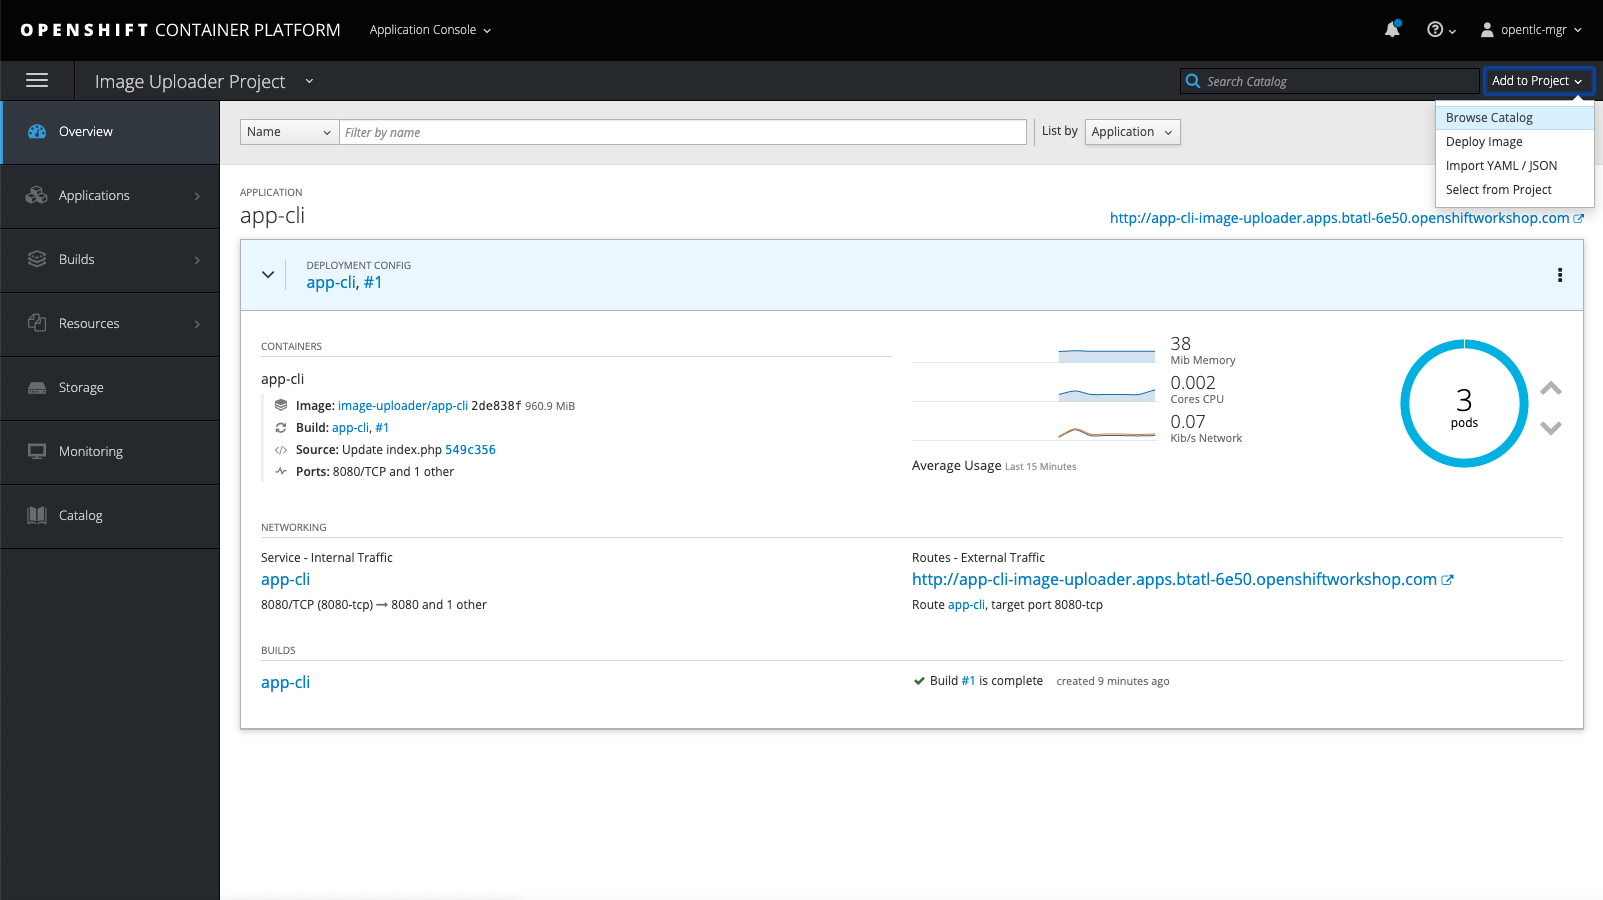
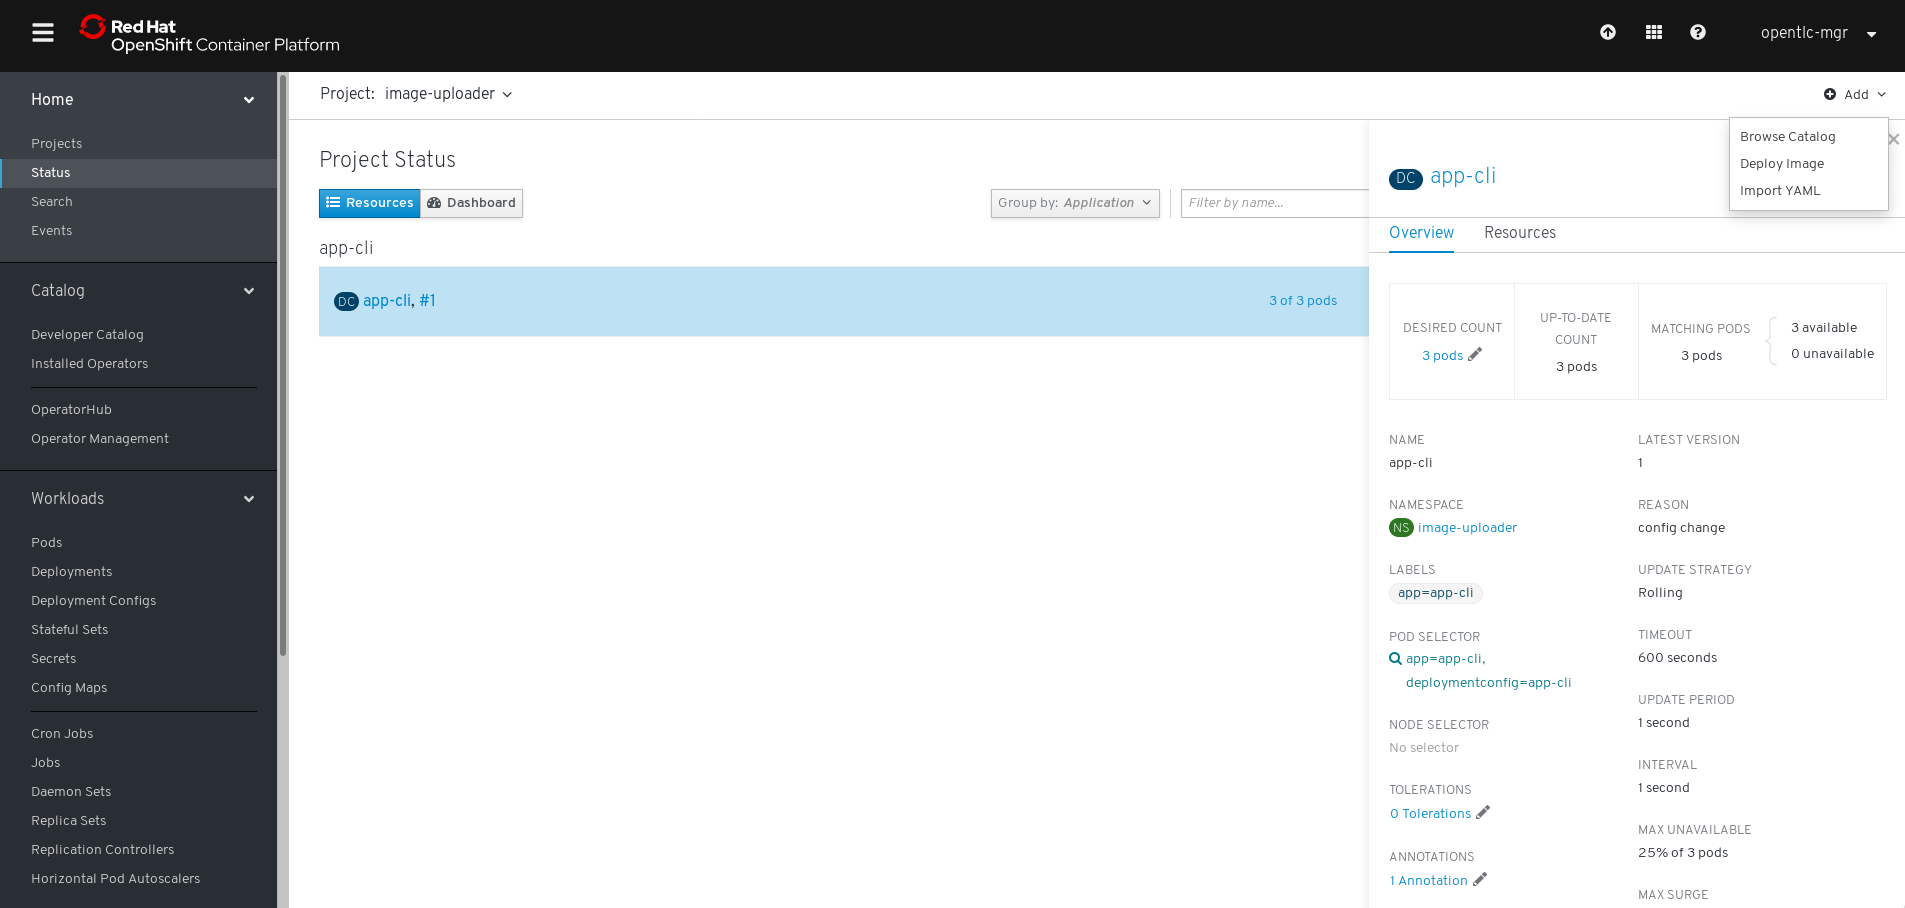
finish first run of ocp revamp

diff --git a/README.md b/README.md
@@ -644,14 +644,26 @@ $ oc project image-uploader
 Inside the `image-uploader` project you'll use the `oc new-app` command to deploy your new application using S2I.
 
 ```
-$ oc new-app --image-stream=php --code=https://github.com/OpenShiftInAction/image-uploader.git --name=app-cli
---> Found image eb1fe84 (2 weeks old) in image stream "openshift/php" under tag "7.1" for "php"
+$ oc new-project image-uploader
+Now using project "image-uploader" on server "https://api.cluster-btws-6505.btws-6505.open.redhat.com:6443".
 
-    Apache 2.4 with PHP 7.1
+You can add applications to this project with the 'new-app' command. For example, try:
+
+    oc new-app django-psql-example
+
+to build a new example application in Python. Or use kubectl to deploy a simple Kubernetes application:
+
+    kubectl create deployment hello-node --image=gcr.io/hello-minikube-zero-install/hello-node
+
+<c new-app --image-stream=php --code=httpsploader.git --name=app-cliction/image-u                              n       
+
+--> Found image fff791a (2 weeks old) in image stream "openshift/php" under tag "7.2" for "php"
+
+    Apache 2.4 with PHP 7.2
     -----------------------
-    PHP 7.1 available as container is a base platform for building and running various PHP 7.1 applications and frameworks. PHP is an HTML-embedded scripting language. PHP attempts to make it easy for developers to write dynamically generated web pages. PHP also offers built-in database integration for several commercial and non-commercial database management systems, so writing a database-enabled webpage with PHP is fairly simple. The most common use of PHP coding is probably as a replacement for CGI scripts.
+    PHP 7.2 available as container is a base platform for building and running various PHP 7.2 applications and frameworks. PHP is an HTML-embedded scripting language. PHP attempts to make it easy for developers to write dynamically generated web pages. PHP also offers built-in database integration for several commercial and non-commercial database management systems, so writing a database-enabled webpage with PHP is fairly simple. The most common use of PHP coding is probably as a replacement for CGI scripts.
 
-    Tags: builder, php, php71, rh-php71
+    Tags: builder, php, php72, rh-php72
 
     * The source repository appears to match: php
     * A source build using source code from https://github.com/OpenShiftInAction/image-uploader.git will be created
@@ -671,15 +683,16 @@ $ oc new-app --image-stream=php --code=https://github.com/OpenShiftInAction/imag
     Application is not exposed. You can expose services to the outside world by executing one or more of the commands below:
      'oc expose svc/app-cli'
     Run 'oc status' to view your app.
+
 ```
 
 The build process should only take a couple of minutes. Once the output of `oc get pods` shows your `app-cli` pod in a Ready and Running state, you're (almost) good to go.
 
 ```
-$ oc get pods
-NAME              READY   STATUS      RESTARTS   AGE
-app-cli-1-build   0/1     Completed   0          1m
-app-cli-1-rkxt4   1/1     Running     0          7s
+NAME               READY   STATUS      RESTARTS   AGE
+app-cli-1-build    0/1     Completed   0          2m15s
+app-cli-1-deploy   0/1     Completed   0          56s
+app-cli-1-rwvx2    1/1     Running     0          47s
 ```
 
 We talked briefly about services and pods and all of the constructs inside OpenShift during the presentation part of this lab. You can see in the output above that you created a service as part of your new application, along with other needed objects. Let's take a look at the `app-cli` service using the command line.
@@ -707,7 +720,7 @@ Before we can get to our new application, we have to expose the service external
 
 ```
 $ oc expose svc/app-cli
-route "app-cli" exposed
+route.route.openshift.io/app-cli exposed
 ```
 
 You may notice that we used `svc` instead of `service` in the above command. Because typing is hard, most objects in OpenShift have an abbreviated syntax you can use on the CLI. Services can also be described as `svc`, DeploymentConfigs are `dc`, Replication Controllers are `rc`, and Pods are `po`. Routes don't have an abbreviation. A full list is available in the [OpenShift documentation](https://docs.openshift.com/container-platform/3.11/cli_reference/basic_cli_operations.html#object-types).
@@ -732,10 +745,10 @@ Scaling your `app-cli` application is accomplished with a single `oc scale` comm
 
 ```
 $ oc scale dc/app-cli --replicas=3
-deploymentconfig.apps.openshift.io "app-cli" scaled
+deploymentconfig.apps.openshift.io/app-cli scaled
 ```
 
-Because your second application node doesn't have the custom container image for `app-cli` already cached, it may take a few seconds for the initial pod to be created on that node. To confirm everything is running, use the `oc get pods` command. The additional `-o wide` provides additional output, including the internal IP address of the pod and the node where it's deployed.
+To confirm everything is running, use the `oc get pods` command. The additional `-o wide` provides additional output, including the internal IP address of the pod and the node where it's deployed.
 
 ```
 $ oc get pods -o wide
@@ -746,41 +759,41 @@ app-cli-1-cdjd8   1/1     Running     0          14s   10.1.2.10   node1.btws-6e
 app-cli-1-rkxt4   1/1     Running     0          2m    10.1.2.8    node1.btws-6e50.internal   <none>
 ```
                   
-Using a single command, you just scaled your application from 1 instance to 3 instances on 2 servers in a matter of seconds. Compare that to what your application scaling process is using VMs or bare metal systems; or even things like Amazon ECS or just Docker. It's pretty amazing. Next, let's do the same thing using the web interface.
+Using a single command, you just scaled your application from 1 instance to 3 instances in a matter of seconds. Compare that to what your application scaling process is using VMs or bare metal systems; or even things like Amazon ECS or just Docker. It's pretty amazing. Next, let's do the same thing using the web interface.
 
 #### 2.3.5: Using the web interface
 
 The web interface for OpenShift makes additional assumptions when its used. The biggest difference you'll notice compared to the CLI is that routes are automatically created when applications are deployed. This can be altered, but it is the default behavior. To get started, browse to the OpenShift Console URL provided by the cluster assignment tool (it will be in the format of https://master.<INSERT_GUID_HERE>.openshiftworkshop.com/console), and login with the username `opentlc-mgr` and the password provided by the cluster assignment tool.
 
-![OpenShift Container Platform Login Page](/images/ocp_login.png) ## TODO Update pic
+![OpenShift Container Platform Login Page](/images/ocp_login.png)
 
-On the right side, select the Image Uploader Project. You may need to click the _View All_ link to have it show up for the first time.
+The default display shows all of the projects that are available to you. Select image-uploader to see what we have deployed so far.
 
-![OpenShift Container Platform Service Catalog](/images/ocp_project_list.png) ## TODO Update pic
+![OpenShift Container Platform Service Catalog](/images/ocp_project_list.png) 
 
 After clicking on the project, you'll notice the `app-cli` project we just deployed. If you click on its area, it will expand to show additional application details. These details include the exposed route, build information, and even resource metrics.
 
-![Image Uploader Project Application Console focused on the app-cli Deployment Config](/images/app-cli_gui.png) ## TODO Update pic
+![Image Uploader Project Application Console focused on the app-cli Deployment Config](/images/app-cli_gui.png)
 
-To deploy an application from the web interface, click the _Add To Project_ button in the top right corner, followed by _Browse Catalog_.
+To deploy an application from the web interface, click the _+ Add_ button in the top right corner, followed by _Browse Catalog_.
 
-![Add to Project -> Browse Catalog Menu in OpenShift Container Platform](/images/ocp_add_to_project.png) ## TODO Update pic
+![Add to Project -> Browse Catalog Menu in OpenShift Container Platform](/images/ocp_add_to_project.png)
 
 This button brings up the Service Catalog. The 100+ templates available in today's lab are just what's available out of the box in OpenShift. You and your developers can also create custom templates and add them to a single project or make them available to your entire cluster. Other platforms can also be integrated into your OpenShift Catalog. Ansible, AWS, Azure, and other service brokers are available for integration with OpenShift today.
 
-![OpenShift Service Catalog view inside of the Application Console](/images/ocp_service_catalog.png) ## TODO Update pic
+![OpenShift Service Catalog view inside of the Application Console](/images/ocp_service_catalog.png)
 
-Using the _Search Catalog_ form, search for PHP, because the Image Uploader application is written using PHP. You'll get 3 search results back.
+Using the search bar, search for PHP, because the Image Uploader application is written using PHP.
 
-![PHP Search Results in the OpenShift Service Catalog](/images/ocp_php_results.png) ## TODO Update pic
+![PHP Search Results in the OpenShift Service Catalog](/images/ocp_php_results.png)
 
-Image Uploader is a simple application that doesn't require a database. So we'll just select the PHP builder image, which is the same image we used when we deployed the same application from the command line. Selecting this option takes you to a simple wizard that helps deploy your application. Supply the same git repository you used for `app-cli` (https://github.com/OpenShiftInAction/image-uploader.git), give it the name `app-gui`, and click Create.
+Image Uploader is a simple application that doesn't require a database. So we'll just select the PHP builder image, which is the same image we used when we deployed the same application from the command line. Selecting this option takes you to a simple wizard that helps deploy your application. Supply the same git repository you used for `app-cli` (https://github.com/OpenShiftInAction/image-uploader.git), give it the name `app-gui`, check Create route, and click Create.
 
-![OpenShift PHP Web Console Build Wizard](/images/ocp_app-gui_wizard.png) ## TODO Update pic
+![OpenShift PHP Web Console Build Wizard](/images/ocp_app-gui_wizard.png)
 
-You'll get a confirmation that the build has started. Click the _Continue to project overview_ link to return to the Image Uploader project. You'll notice that the `app-gui` build is progressing quickly.
+You'll be returned to the project. Click on the _Resources_ tab to see the build pod running. Watch as the build completes and the app-gui pod is deployed.
 
-![Image Uploader Project Application Console focused on the app-gui Deployment Config](/images/ocp_app-gui_build.png) ## TODO Update pic
+![Image Uploader Project Application Console focused on the app-gui Deployment Config](/images/ocp_app-gui_build.png)
 
 After the build completes, the deployment of the custom container image starts and quickly completes. A route is then created and automatically associated with `app-gui`. And just like that, you've deployed multiple instances of the same application with different URLs onto your OpenShift platform.
 
@@ -793,22 +806,27 @@ OpenShift uses a complex software-defined network solution using [Open vSwitch (
 At a fundamental level, OpenShift creates an OVS bridge and attaches a TUN and VXLAN interface. The VXLAN interface routes requests between nodes on the cluster, and the TUN interface routes traffic off of the cluster using the node's default gateway. Each container also creates a `veth` interface that is linked to the `eth0` interface in a specific container using [kernel interface linking](https://www.kernel.org/doc/Documentation/ABI/testing/sysfs-class-net). You can see this on your nodes by running the `ovs-vsct list-br` command.
 
 ```
-$ ovs-vsctl list-br
+$ oc project openshift-sdn
+Now using project "openshift-sdn" on server "https://api.cluster-btws-6505.btws-6505.open.redhat.com:6443".
+$ oc rsh sdn-zmxwb        
+sh-4.2# ovs-vsctl list-br
 br0
 ```
 
 This lists the OVS bridges on the host. To see the interfaces within the bridge, run the following command. Here you can see the `vxlan`, `tun`, and `veth` interfaces within the bridge.
 
 ```
-$ ovs-vsctl list-ifaces br0
+sh-4.2# ovs-vsctl list-ifaces br0
 tun0
-veth1903c0e4
-veth2daf2599
-veth6afcc070
-veth77b9379f
-veth9406531e
-veth97389395
+veth21741a49
+veth29ca1093
+veth2a2f8d07
+...
+vethd4385486
+vethecd29240
+vethfd45d761
 vxlan0
+
 ```
 
 Logically, the networking configuration on an OpenShift node looks like the graphic below.
@@ -819,54 +837,52 @@ When networking isn't working as you expect, and you've already ruled out DNS (f
 
 #### 2.3.7: Routing layer
 
-The routing layer inside OpenShift uses HAProxy by default. It's function is to map the publicly available route you assign to an application and map it back to the corresponding pods in your cluster. Each time an application or route is updated (created, retired, scaled up or down), the configuration in HAProxy is updated by OpenShift. HAProxy runs in a pod in the default project on your infrastructure node.
+The routing layer inside OpenShift uses HAProxy by default. It's function is to map the publicly available route you assign to an application and map it back to the corresponding pods in your cluster. Each time an application or route is updated (created, retired, scaled up or down), the configuration in HAProxy is updated by OpenShift. HAProxy runs in a pod in the openshift-ingress project on your worker node.
 
 ```
-$ oc project default
-Now using project "default" on server "https://master.btws-6e50.openshiftworkshop.com:443".
+$ oc project openshift-ingress
+Now using project "openshift-ingress" on server "https://api.cluster-btws-6505.btws-6505.open.redhat.com:6443".
 $ oc get pods
-NAME                          READY   STATUS    RESTARTS   AGE
-docker-registry-1-j7hxb       1/1     Running   0          20h
-logging-eventrouter-1-plbqk   1/1     Running   0          20h
-registry-console-1-59clb      1/1     Running   0          20h
-router-2-2zh8h                1/1     Running   0          20h
+NAME                              READY   STATUS    RESTARTS   AGE
+router-default-565b875b8f-6jz5m   0/1     Pending   0          69s
+router-default-565b875b8f-vd2bq   1/1     Running   0          98m
+
 ```
 
 If you know the name of a pod, you can us `oc rsh` to connect to it remotely. This is doing some fun magic using `ssh` and `nsenter` under the covers to provide a connection to the proper node inside the proper namespaces for the pod. Looking in the `haproxy.config` file for references to `app-cli` gives displays your router configuration for that application. Ctrl-D will exit out of your `rsh` session.
 
 ```
-$ oc rsh router-2-2zh8h
+$ oc rsh router-default-565b875b8f-vd2bq
 sh-4.2$ grep app-cli haproxy.config
 backend be_http:image-uploader:app-cli
-  server pod:app-cli-1-cdjd8:app-cli:10.1.2.10:8080 10.1.2.10:8080 cookie 3da20208fff607747e80c32e4e9a1eb4 weight 256 check inter 5000ms
-  server pod:app-cli-1-rkxt4:app-cli:10.1.2.8:8080 10.1.2.8:8080 cookie 1927a94d903b1671af33f2daaad0d86e weight 256 check inter 5000ms
-  server pod:app-cli-1-6hlq6:app-cli:10.1.2.9:8080 10.1.2.9:8080 cookie 3259a6df68f9840717af88209f7650e6 weight 256 check inter 5000ms
-sh-4.2$ exit
+  server pod:app-cli-1-rwvx2:app-cli:10.131.0.36:8080 10.131.0.36:8080 cookie 1702f35f742d5e8117de84fa19e12304 weight 256 check inter 5000ms
+  server pod:app-cli-1-2ghrn:app-cli:10.131.0.37:8080 10.131.0.37:8080 cookie d19292b591a71f73177763b59c809020 weight 256 check inter 5000ms
+  server pod:app-cli-1-xtwk8:app-cli:10.131.0.38:8080 10.131.0.38:8080 cookie a33e59025d3469285e05b257eecae50d weight 256 check inter 5000ms
 ```
 
 If you use the `oc get pods` command for the Image Uploader project and limit its output for the `app-cli` application, you can see the IP addresses in HAProxy match the pods for the application.
 
 ```
 $ oc get pods -l app=app-cli -n image-uploader -o wide
-NAME              READY   STATUS    RESTARTS   AGE   IP          NODE                        NOMINATED NODE
-app-cli-1-6hlq6   1/1     Running   0          12m   10.1.2.9    node1.btws-6e50.internal   <none>
-app-cli-1-cdjd8   1/1     Running   0          12m   10.1.2.10   node1.btws-6e50.internal   <none>
-app-cli-1-rkxt4   1/1     Running   0          14m   10.1.2.8    node1.btws-6e50.internal   <none>
+NAME              READY   STATUS    RESTARTS   AGE   IP            NODE                          NOMINATED NODE   READINESS GATES
+app-cli-1-2ghrn   1/1     Running   0          55m   10.131.0.37   ip-10-0-129-52.ec2.internal   <none>           <none>
+app-cli-1-rwvx2   1/1     Running   0          61m   10.131.0.36   ip-10-0-129-52.ec2.internal   <none>           <none>
+app-cli-1-xtwk8   1/1     Running   0          55m   10.131.0.38   ip-10-0-129-52.ec2.internal   <none>           <none>
 ```
 
 To confirm HAProxy is automatically updated, let's scale `app-cli` back down to 1 pod and re-check the router configuration.
 
 ```
 $ oc scale dc/app-cli -n image-uploader --replicas=1
-deploymentconfig.apps.openshift.io "app-cli" scaled
+deploymentconfig.apps.openshift.io/app-cli scaled
 
 $ oc get pods -l app=app-cli -n image-uploader -o wide
-NAME              READY   STATUS    RESTARTS   AGE   IP         NODE                        NOMINATED NODE
-app-cli-1-rkxt4   1/1     Running   0          15m   10.1.2.8   node1.btws-6e50.internal   <none>
+NAME              READY   STATUS    RESTARTS   AGE   IP            NODE                          NOMINATED NODE   READINESS GATES
+app-cli-1-rwvx2   1/1     Running   0          62m   10.131.0.36   ip-10-0-129-52.ec2.internal   <none>           <none>
 
-$ oc exec router-2-2zh8h grep app-cli haproxy.config
+$ oc exec router-default-565b875b8f-vd2bq grep app-cli haproxy.config
 backend be_http:image-uploader:app-cli
-  server pod:app-cli-1-rkxt4:app-cli:10.1.2.8:8080 10.1.2.8:8080 cookie 1927a94d903b1671af33f2daaad0d86e weight 256 check inter 5000ms
+  server pod:app-cli-1-rwvx2:app-cli:10.131.0.36:8080 10.131.0.36:8080 cookie 1702f35f742d5e8117de84fa19e12304 weight 256 check inter 5000ms
 ```
 
 We were able to confirm that our HAProxy configuration updates automatically when applications are updated.
@@ -887,7 +903,7 @@ We know this is a mountain of content. Our goal is to present you with informati
  [getting started guide](https://github.com/operator-framework/operator-sdk/blob/master/doc/ansible/user-guide.md)
 
 
- ## I'm working on developing a very basic Ansible operator that will manage namespaces and their resource quotas. I think this is a good use case since we already cover resource quotas and there are a number of other functionality we can challenge them to develop. ex) namespace clean up, smart quota increasing
+[//]: # I'm working on developing a very basic Ansible operator that will manage namespaces and their resource quotas. I think this is a good use case since we already cover resource quotas and there are a number of other functionality we can challenge them to develop. ex) namespace clean up, smart quota increasing
 
 
 ### 3.3: Summary
@@ -898,7 +914,7 @@ This section has been about the deeper relationship between OpenShift and Ansibl
 
 ## 4: A real world CI/CD scenario
 
- ## I still like this workflow, but I think we can provide the participants with a CICD operator to create everything to demonstrate namespace scoped operators. Then we come back with the namespace config operator to manage the created namespaces to show what and admin would be worrying about... Some thing in the vein of this but as an ansibl operator (https://github.com/redhat-cop/namespace-configuration-operator/tree/master)
+ [//]: # I still like this workflow, but I think we can provide the participants with a CICD operator to create everything to demonstrate namespace scoped operators. Then we come back with the namespace config operator to manage the created namespaces to show what and admin would be worrying about... Some thing in the vein of this but as an ansibl operator (https://github.com/redhat-cop/namespace-configuration-operator/tree/master)
 
 In the final section of our workshop, we'll take everything we've been discussing and put it into practice with a large, complex, real-work workflow. In your cluster, you'll create multiple projects and use a Jenkins pipeline workflow that:
 
@@ -914,7 +930,7 @@ This is a complete analog to a modern CI/CD workflow, implemented 100% within Op
 
 ```
 cd ~
-git clone --branch ocp-3.11 https://github.com/siamaksade/openshift-cd-demo.git 
+git clone --branch ocp-4.1 https://github.com/siamaksade/openshift-cd-demo.git 
 cd openshift-cd-demo
 ```
 
